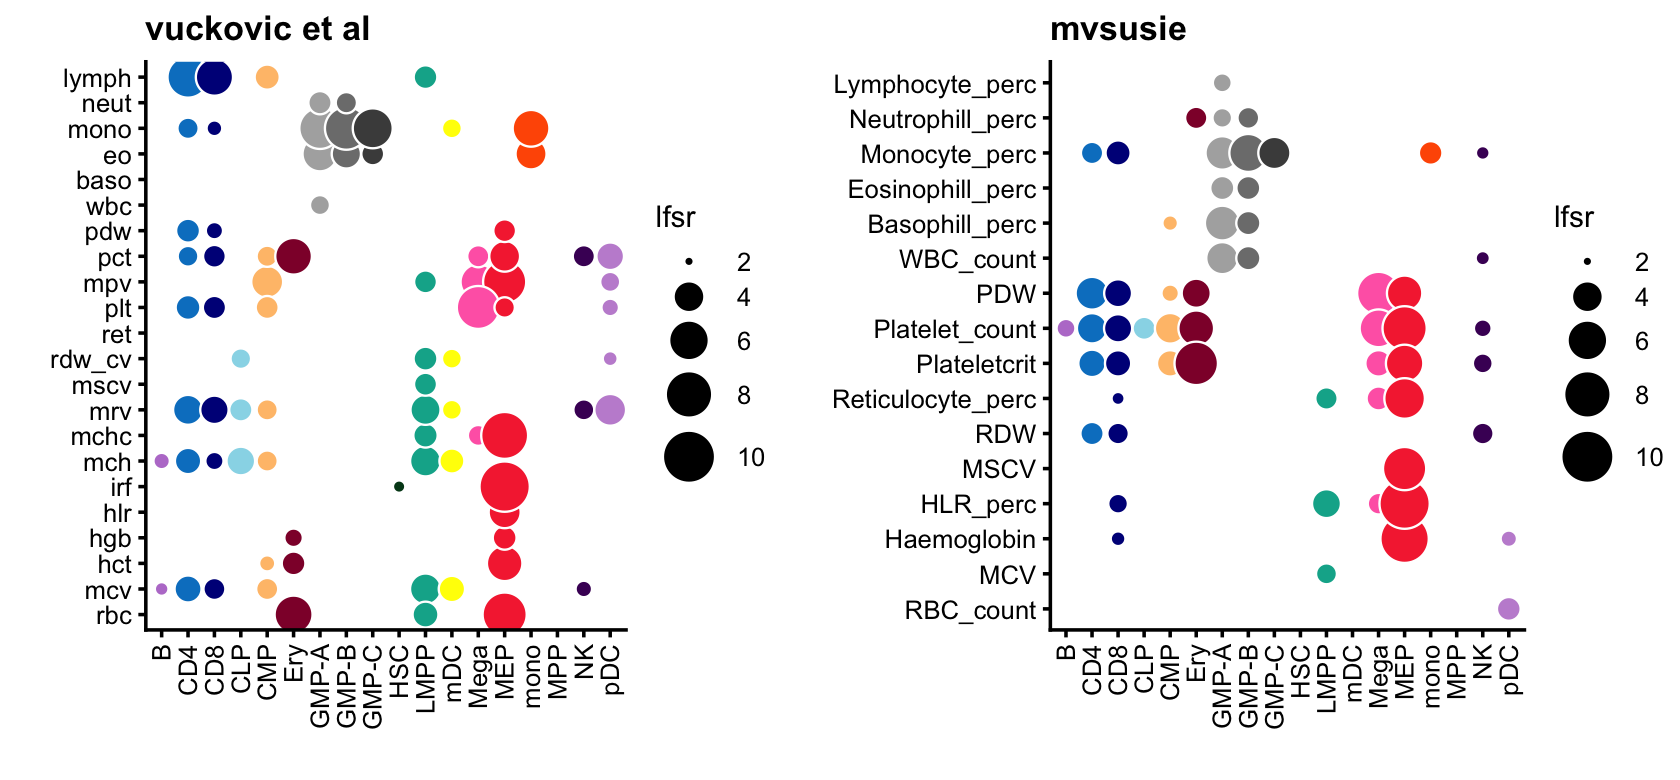
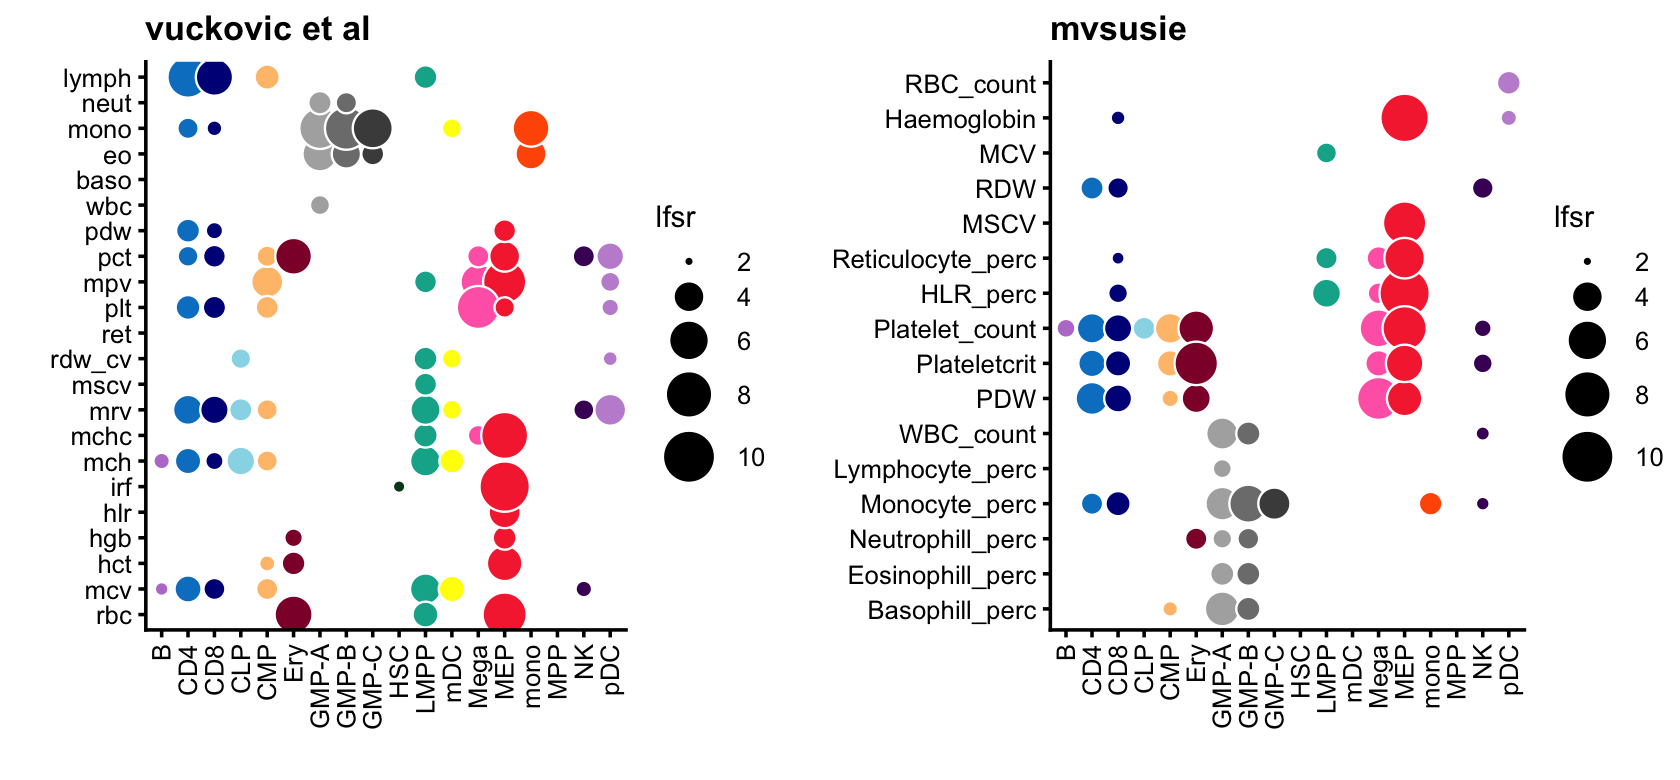
Added another plot to gchromvar.Rmd comparing susie vs. mvsusie.

diff --git a/docs/gchromvar.html b/docs/gchromvar.html
@@ -11,7 +11,7 @@
 
 <meta name="author" content="Peter Carbonetto" />
 
-<meta name="date" content="2023-10-25" />
+<meta name="date" content="2023-11-23" />
 
 <title>gchromVAR analysis of SuSiE and mvSuSiE fine-mapping results for UK Biobank blood cell traits</title>
 
@@ -165,7 +165,7 @@ pre code {
 <h1 class="title toc-ignore">gchromVAR analysis of SuSiE and mvSuSiE
 fine-mapping results for UK Biobank blood cell traits</h1>
 <h4 class="author">Peter Carbonetto</h4>
-<h4 class="date">October 25, 2023</h4>
+<h4 class="date">November 23, 2023</h4>
 
 </div>
 
@@ -192,14 +192,19 @@ celltype_colors &lt;- c(jdb_color_map(celltypes[1:11]),
                      jdb_color_map(celltypes[14:18]))
 names(celltype_colors) &lt;- celltypes</code></pre>
 <p>Load the SuSiE and mvSuSiE gchomeVAR results:</p>
-<pre class="r"><code>susie_traits &lt;- rev(
-  c(&quot;Lymphocyte_perc&quot;,&quot;Neutrophill_perc&quot;,&quot;Monocyte_perc&quot;,&quot;Eosinophill_perc&quot;,
-    &quot;Basophill_perc&quot;,&quot;WBC_count&quot;,&quot;PDW&quot;,&quot;Platelet_count&quot;,&quot;Plateletcrit&quot;,
-    &quot;Reticulocyte_perc&quot;,&quot;RDW&quot;,&quot;MSCV&quot;,&quot;HLR_perc&quot;,&quot;Haemoglobin&quot;,&quot;MCV&quot;,
-    &quot;RBC_count&quot;))
-susie   &lt;- read.csv(&quot;../output/blood_cell_traits/gchromvar_susie.csv&quot;,
-                    stringsAsFactors = FALSE)
-mvsusie &lt;- read.csv(&quot;../output/blood_cell_traits/gchromvar_mvsusie.csv&quot;,
+<pre class="r"><code># susie_traits &lt;- rev(
+#   c(&quot;Lymphocyte_perc&quot;,&quot;Neutrophill_perc&quot;,&quot;Monocyte_perc&quot;,&quot;Eosinophill_perc&quot;,
+#     &quot;Basophill_perc&quot;,&quot;WBC_count&quot;,&quot;PDW&quot;,&quot;Platelet_count&quot;,&quot;Plateletcrit&quot;,
+#   &quot;Reticulocyte_perc&quot;,&quot;RDW&quot;,&quot;MSCV&quot;,&quot;HLR_perc&quot;,&quot;Haemoglobin&quot;,&quot;MCV&quot;,
+#   &quot;RBC_count&quot;))
+susie_traits &lt;- rev(
+  c(&quot;RBC_count&quot;,&quot;Haemoglobin&quot;,&quot;MCV&quot;,&quot;RDW&quot;,&quot;MSCV&quot;,&quot;Reticulocyte_perc&quot;,
+    &quot;HLR_perc&quot;,&quot;Platelet_count&quot;,&quot;Plateletcrit&quot;,&quot;PDW&quot;,&quot;WBC_count&quot;,
+    &quot;Lymphocyte_perc&quot;,&quot;Monocyte_perc&quot;,&quot;Neutrophill_perc&quot;,
+    &quot;Eosinophill_perc&quot;,&quot;Basophill_perc&quot;))
+susie &lt;- read.csv(&quot;../output/blood_cell_traits/gchromvar/gchromvar_susie.csv&quot;,
+                  stringsAsFactors = FALSE)
+mvsusie &lt;- read.csv(&quot;../output/blood_cell_traits/gchromvar/gchromvar_mvsusie.csv&quot;,
                     stringsAsFactors = FALSE)
 susie   &lt;- transform(susie,
                      celltype = factor(celltype,celltypes),
@@ -277,6 +282,20 @@ ggplot(pdat,aes(x = susie,y = mvsusie,color = celltype,label = trait)) +
   ylim(min(z),max(z)) +
   theme_cowplot(font_size = 10)</code></pre>
 <p><img src="gchromvar_files/figure-html/mvsusie-vs-susie-1.png" width="480" style="display: block; margin: auto;" /></p>
+<p>Let’s perform this same comparison, plotted in a different way:</p>
+<pre class="r"><code>p3 &lt;- ggplot(mvsusie,aes(x = celltype,y = trait,fill = celltype,size = lfsr)) +
+  geom_point(shape = 21,color = &quot;white&quot;) +
+  scale_size(range = c(1,7),limits = c(2,10)) +
+  scale_fill_manual(values = celltype_colors,guide = &quot;none&quot;) +
+  guides(size = guide_legend(override.aes = list(shape = 21,fill = &quot;black&quot;))) +
+  geom_point(data = susie,
+             mapping = aes(x = celltype,y = trait,size = lfsr),
+             inherit.aes = FALSE,color = &quot;black&quot;,shape = 21) +
+  theme_cowplot(font_size = 9) +
+  labs(x = &quot;&quot;,y = &quot;&quot;) +
+  theme(axis.text.x = element_text(angle = 90,hjust = 1,vjust = 0.5))
+p3</code></pre>
+<p><img src="gchromvar_files/figure-html/unnamed-chunk-1-1.png" width="480" style="display: block; margin: auto;" /></p>
 <p>The same comparison, broken down by cell type:</p>
 <pre class="r"><code>p        &lt;- vector(&quot;list&quot;,length(celltypes))
 names(p) &lt;- celltypes
@@ -354,8 +373,8 @@ analysis):</p>
 # [1] stats     graphics  grDevices utils     datasets  methods   base     
 # 
 # other attached packages:
-# [1] ashr_2.2-57      cowplot_1.1.1    ggrepel_0.9.1    BuenColors_0.5.6
-# [5] ggplot2_3.3.6    MASS_7.3-51.4   
+# [1] cowplot_1.1.1    ggrepel_0.9.1    BuenColors_0.5.6 ggplot2_3.3.6   
+# [5] MASS_7.3-51.4    ashr_2.2-57     
 # 
 # loaded via a namespace (and not attached):
 #  [1] tidyselect_1.1.1  xfun_0.36         bslib_0.3.1       purrr_0.3.4      
